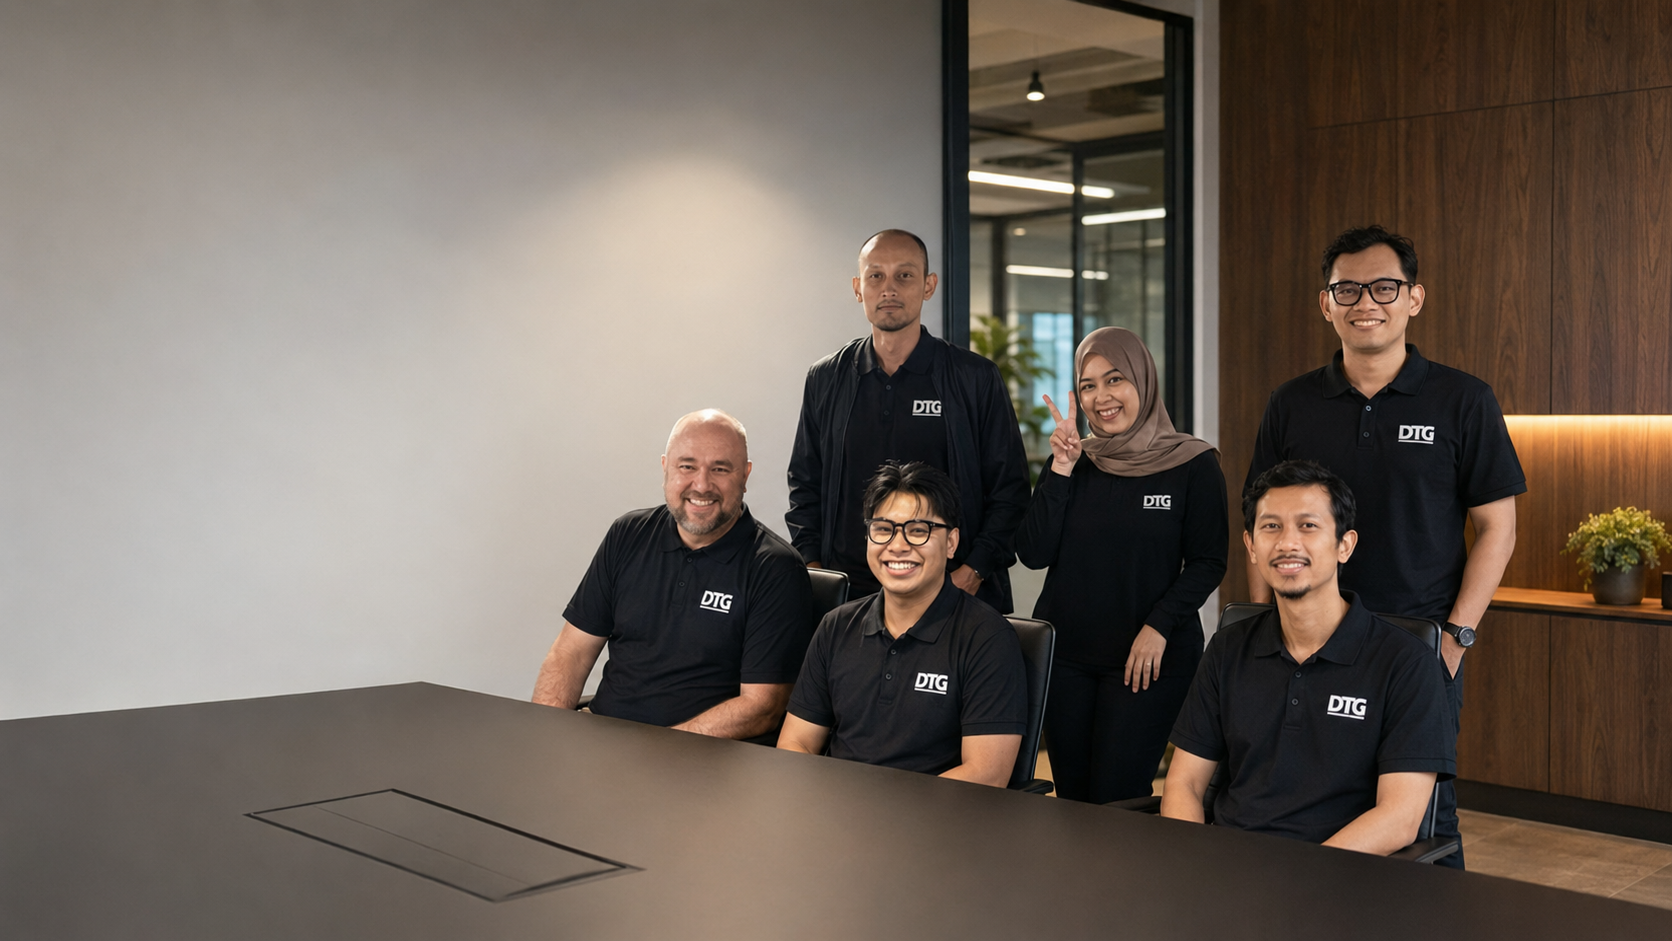
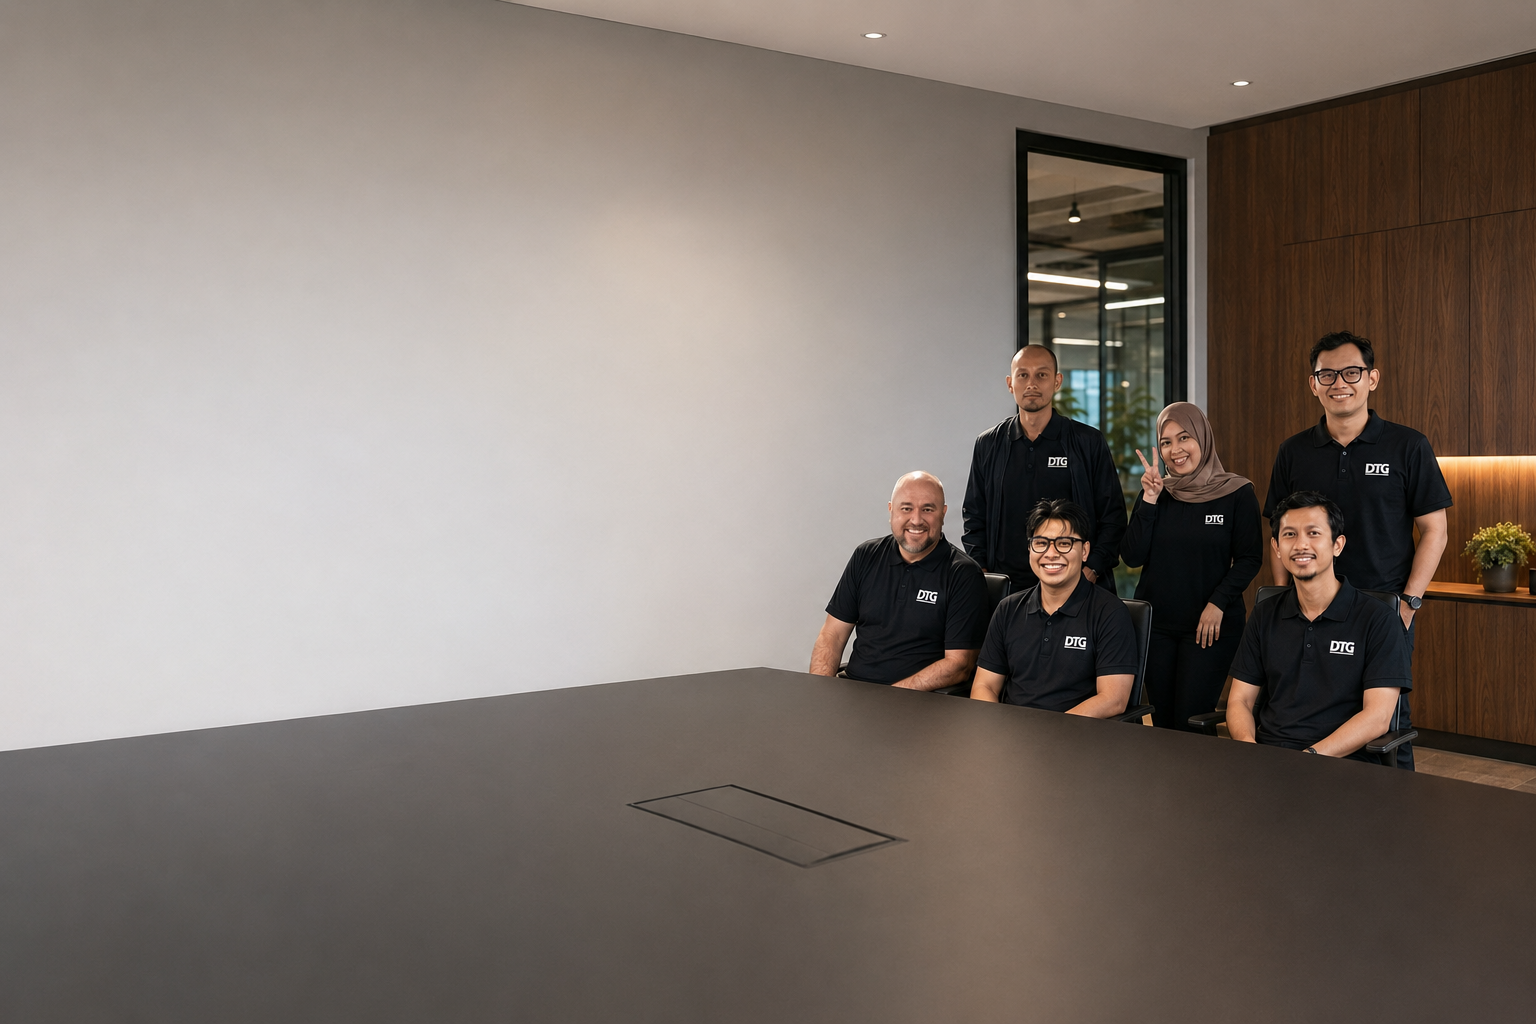
About hero: retint scrim to brand teal + retune crop for new photo
- Scrim retinted from near-black rgba(6,18,22) to brand deep-teal #073C4A
  (rgba(7,60,74)), matching the homepage hero's tinting METHOD (both are a
  gradient-overlay div). Home's own overlay is #03181B, but about's photo is a
  grey office, so it needs the brighter #073C4A to read as the same blue-teal
  wash. Photo not recoloured — overlay only.
- Opening opacity held at 0.88 (NOT eased): the left wall is light grey, so white
  text needs it to pass WCAG AA (measured ~10:1 white over the wash).
- New photo (group compact, right; left half empty): object-position 62% desktop
  (whole group in view, text clear of faces), 70% + near-full wash on mobile.
- Hero content colours unchanged and still hardcoded on-dark (verified no flip in
  light theme). Committed the replaced about-hero-team.png.

diff --git a/app/globals.css b/app/globals.css
@@ -14879,24 +14879,30 @@ main .ld-container,
 /* HERO */
 .ab-hero { position:relative; min-height:82vh; display:flex; align-items:flex-end; overflow:hidden; background:linear-gradient(155deg,#0c303c 0%,#0a2029 45%,var(--c-surface-deep) 100%); }
 .ab-hero::before { content:""; position:absolute; inset:0; z-index:0; pointer-events:none; background:radial-gradient(circle at 74% 34%,rgba(99,183,93,.07),transparent 55%); }
-/* Team-photo hero background — dark in BOTH themes (it's a photo). All hero content colours are
-   hardcoded on-dark (#fff / --off-white / --accent / white-outline button), so nothing flips to a
-   light value under [data-theme=light]; the scrim guarantees contrast over the light office wall. */
+/* Team-photo hero background — dark in BOTH themes (it's a photo). Hero content colours are
+   hardcoded on-dark (#fff / --off-white / --accent / white-outline button), so nothing flips under
+   [data-theme=light]. The scrim is a deep-teal (#073C4A) gradient OVERLAY — SAME METHOD as the
+   homepage hero (.home-hero-overlay is also a gradient-overlay div), retinted from near-black to
+   brand teal so both heroes read as one blue-teal wash. NOTE: home's own overlay is #03181B (a
+   darker near-black teal); about needs the brighter #073C4A because its photo is grey, not teal.
+   Opening opacity held at 0.88 — the left wall is LIGHT grey, so white text needs it for WCAG AA
+   (~10:1). object-position 62% keeps the group (now compact, right) in view with text clear of
+   faces. The photo is NOT recoloured — the teal wash is an overlay only. */
 .ab-hero__media { position:absolute; inset:0; z-index:0; overflow:hidden; }
-.ab-hero__media img { object-fit:cover; object-position:70% 50%; }
+.ab-hero__media img { object-fit:cover; object-position:62% 50%; }
 .ab-hero__scrim { position:absolute; inset:0; z-index:1; pointer-events:none;
   background:
-    linear-gradient(90deg, rgba(6,18,22,0.92) 0%, rgba(6,18,22,0.57) 50%, rgba(6,18,22,0) 78%),
-    linear-gradient(180deg, rgba(6,18,22,0.45) 0%, rgba(6,18,22,0) 16%),
-    linear-gradient(0deg, rgba(6,18,22,0.6) 0%, rgba(6,18,22,0) 26%); }
-/* MOBILE: the group can't sit beside the text, so push the crop right (show the group, drop the
-   empty wall) and wash the scrim to near-full so white text stays readable over faces. */
+    linear-gradient(90deg, rgba(7,60,74,0.88) 0%, rgba(7,60,74,0.55) 50%, rgba(7,60,74,0) 78%),
+    linear-gradient(180deg, rgba(7,60,74,0.42) 0%, rgba(7,60,74,0) 16%),
+    linear-gradient(0deg, rgba(7,60,74,0.55) 0%, rgba(7,60,74,0) 26%); }
+/* MOBILE: narrow crop can't hold the whole group beside the text, so push the crop right a touch
+   and wash the teal scrim to near-full so white text stays readable over faces. */
 @media (max-width:760px) {
-  .ab-hero__media img { object-position:80% 50%; }
+  .ab-hero__media img { object-position:70% 50%; }
   .ab-hero__scrim {
     background:
-      linear-gradient(90deg, rgba(6,18,22,0.94) 0%, rgba(6,18,22,0.8) 55%, rgba(6,18,22,0.55) 100%),
-      linear-gradient(0deg, rgba(6,18,22,0.62) 0%, rgba(6,18,22,0) 30%); }
+      linear-gradient(90deg, rgba(7,60,74,0.9) 0%, rgba(7,60,74,0.78) 55%, rgba(7,60,74,0.5) 100%),
+      linear-gradient(0deg, rgba(7,60,74,0.58) 0%, rgba(7,60,74,0) 30%); }
 }
 .ab-hero__content { position:relative; z-index:2; padding-bottom:clamp(56px,7vw,76px); }
 .ab-hero__eyebrow { display:block; margin-bottom:20px; color:var(--off-white); opacity:.85; }
